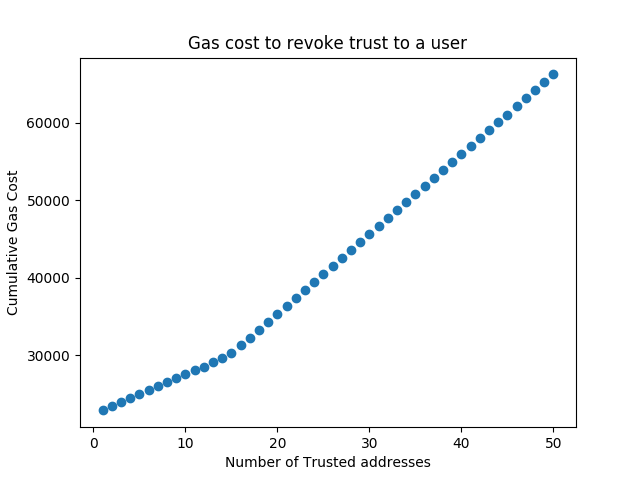
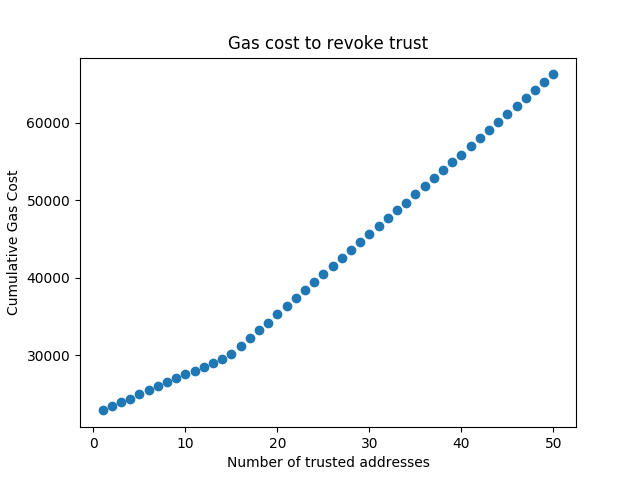
Daily

diff --git a/evaluation_scripts/eth_plots/tx_cost_plotter.py b/evaluation_scripts/eth_plots/tx_cost_plotter.py
@@ -11,7 +11,7 @@ from Developer import *
 from User import *
 import util as u
 
-save_dir = './evaluation_scripts/eth_plots/'
+save_dir = './evaluation_scripts/Plots/'
 
 Mode_SHOW = 0
 Mode_SAVE = 1
@@ -29,14 +29,18 @@ contract.publish(primary_acc)
 def plt_endorse_trust(mode):
     trusted_addr = u.generate_eth_pk(experiment_size)
     tx_gas = []
+    ii = 0
     for pk in trusted_addr:
-        tx_hash = contract.get_consice_instance().endorse_trust(pk, transact={'from': primary_acc})
-        txn_receipt = m_web3.eth.getTransactionReceipt(tx_hash)
-        tx_gas.append(txn_receipt['cumulativeGasUsed'])
+        if ii % 5 == 0:
+            tx_hash = contract.get_consice_instance().endorse_trust(pk, transact={'from': primary_acc})
+            txn_receipt = m_web3.eth.getTransactionReceipt(tx_hash)
+            tx_gas.append(txn_receipt['cumulativeGasUsed'])
+        ii +=1
+
     fig = plt.figure()   
-    plt.plot(tx_gas)
+    plt.scatter(np.arange(1,experiment_size+1,5), tx_gas)
     plt.title('Gas cost for allocating trust to a user')
-    plt.xlabel('Number of Trusted addresses')
+    plt.xlabel('Number of trusted addresses')
     plt.ylabel('Cumulative Gas Cost')
     if mode == Mode_SHOW:
         plt.show()
@@ -61,8 +65,8 @@ def plt_revoke_trust(mode):
     
     fig = plt.figure()   
     plt.scatter(x_axis,tx_gas)
-    plt.title('Gas cost to revoke trust to a user')
-    plt.xlabel('Number of Trusted addresses')
+    plt.title('Gas cost to revoke trust')
+    plt.xlabel('Number of trusted addresses')
     plt.ylabel('Cumulative Gas Cost')
     if mode == Mode_SHOW:
         plt.show()
@@ -83,6 +87,50 @@ def plt_hops_vs_gas(mode):
     tt = contract.get_consice_instance().hop_to_target(blockchain_admin.get_account(1),
                                                        blockchain_admin.get_account(0))
     print(tt) 
+
+
+def pow_cost(mode):
+    cc = Contract('contracts/firmware_repo.sol','FirmwareRepo', m_web3, verbose=False)
+    cc.publish(blockchain_admin.get_account(0))
+    # Create Developer node with PK(1)
+    developer_node = Developer_Node(m_web3, cc, blockchain_admin.get_account(0), "Test", ipfs_admin)
+    # Push Firmware
+    attempts = []
+    difficulty = []
+    for i in range(0,experiment_size):
+        current_gas = 0
+        pow_found = False
+        nonce = 1
+        while (not pow_found):
+            try:
+                tx_hash = cc.get_def_instance().functions.proofOfWork(nonce).transact()
+                pow_found = True
+            except:
+                pow_found = False
+                nonce += 1
+        attempts.append(nonce)
+        difficulty.append(cc.get_def_instance().functions.get_d().call())
+        print("Current dif {} iteration {}".format(cc.get_def_instance().functions.get_d().call(),i))
+    fig = plt.figure(1)
+    plt.subplot(211)
+    plt.locator_params(nbins=12)
+    plt.scatter(np.arange(1,experiment_size+1),attempts)
+    plt.title('Cost for adding a new firmware')
+    plt.xlabel('Firmware Added')
+    plt.ylabel('Sha3 Computations')
+
+    plt.subplot(212)
+    plt.locator_params(nbins=12)
+    plt.scatter(np.arange(1,experiment_size+1),difficulty)
+    plt.title('Difficulty')
+    plt.xlabel('Firmware Added')
+    plt.ylabel('PoW Target')
+
+    if mode == Mode_SHOW:
+        plt.show()
+    else:
+        fig.savefig(save_dir + 'add_firmware.png', dpi=fig.dpi)
+        
 
 def add_firmware_cost(mode):
     cc = Contract('contracts/firmware_repo.sol','FirmwareRepo', m_web3, verbose=False)
@@ -131,5 +179,7 @@ def add_firmware_variable_description(mode):
         fig.savefig(save_dir + 'add_firmware.png', dpi=fig.dpi)
 
 
-#plt_revoke_trust(Mode_SAVE)
-print("Web of Trust Deployment Gas Cost: {}".format(contract.deployment_cost))
+# pow_cost(Mode_SHOW)
+#print("Web of Trust Deployment Gas Cost: {}".format(contract.deployment_cost))
+
+plt_revoke_trust(Mode_SAVE)

diff --git a/evaluation_scripts/results_parser.py b/evaluation_scripts/results_parser.py
@@ -1,21 +1,30 @@
 import json
 import matplotlib.pyplot as plt
 
-user_no = []
-delay_avg = []
-delay_std = []
+def plot(filepath):
+    user_no = []
+    delay_avg = []
+    delay_std = []
 
-def parse_line(line):
-    d = json.loads(line)
-    user_no.append(d['Users'])
-    delay_avg.append(float(d['Time']))
+    def parse_line(line):
+        d = json.loads(line)
+        user_no.append(d['Users'])
+        delay_avg.append(d['Avg Time'])
+        delay_std.append(d['Std Time'])
     
-filepath = './evaluation_scripts/ipfs_test/ipfs_node_1_result.txt'  
-with open(filepath) as fp:  
-   line = fp.readline()
-   while line:
-        parse_line(line)
+    with open(filepath) as fp:  
         line = fp.readline()
+        while line:
+            parse_line(line)
+            line = fp.readline()
 
-plt.scatter(user_no, delay_avg)
+    plt.scatter(user_no, delay_avg)#, yerr=delay_std)
+
+
+ipfs_path = './evaluation_scripts/ipfs_test/result.txt'
+server_path = './evaluation_scripts/server_test/results.txt'
+
+plot(ipfs_path)
+plot(server_path)
+
 plt.show()
